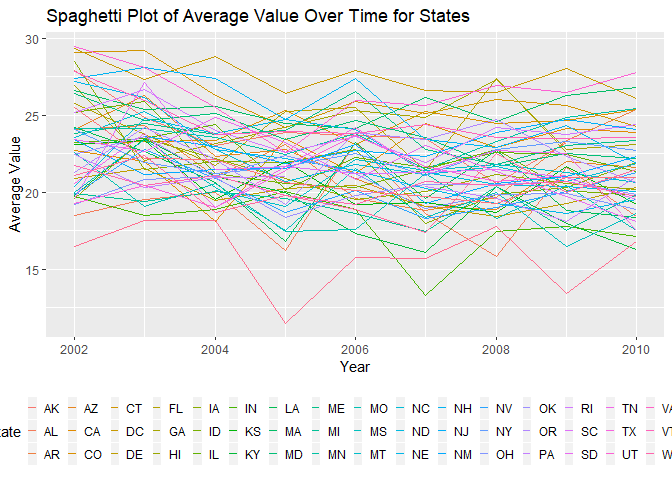
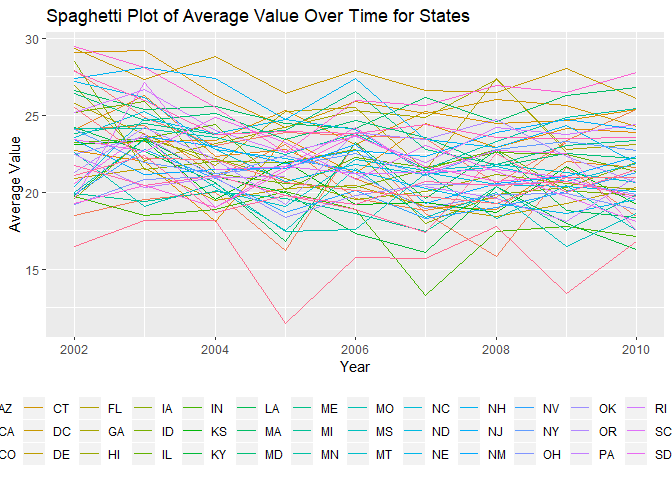
figured out 2-panel plot for Problem 2, continuing work on problem 3

diff --git a/p8105_hw3_ebm2142.md b/p8105_hw3_ebm2142.md
@@ -77,17 +77,18 @@ count(instacart, aisle) %>% ungroup() %>% arrange(desc(n))
 ``` r
 instacart %>%
 count(aisle) %>% 
+filter(n > 10000) %>% 
 mutate(aisle = forcats::fct_reorder(aisle, n, .desc = TRUE)) %>% 
 ggplot(aes(x = aisle, y = n)) + coord_flip() +
 geom_bar(stat = "identity") +
 labs(title = "Number of Orders in Aisle",
        x = "Aisle",
-       y = "Number of Orders") 
+       y = "Number of Orders")
 ```
 
-![](p8105_hw3_ebm2142_files/figure-gfm/making%20number%20of%20orders%20plot-1.png)<!-- -->
+![](p8105_hw3_ebm2142_files/figure-gfm/unnamed-chunk-1-1.png)<!-- -->
 
-##### *This is impossible to read because idk how to filter it yet.*
+##### *By far the aisles with the most orders are healthy (fruits, vegetables, and yogurt among the top 4).*
 
 #### Make a table showing the three most popular items in each of the aisles “baking ingredients”, “dog food care”, and “packaged vegetables fruits”. Include the number of times each item is ordered in your table.
 
@@ -122,16 +123,24 @@ instacart %>%
 
 ``` r
 instacart %>% 
-filter(product_name %in% c("Pink Lady Apples", "Coffee Ice Cream")) %>%  
+filter(product_name %in% c("Pink Lady Apples", "Coffee Ice Cream")) %>% 
   select(product_name, order_dow, order_hour_of_day) %>% 
+  mutate(dow_name = recode(order_dow, 
+                      '1' = "Mon",
+                      '2' = "Tues",
+                      '3' = "Wed",
+                      '4'  = "Thurs",
+                      '5' = "Fri",
+                      '6' = "Sat",
+                      '0' = "Sun")) %>% 
   group_by(product_name, order_dow) %>% 
   summarize(mean_hour = round(mean(order_hour_of_day))) %>%
   spread(key = order_dow, value = mean_hour) %>% 
-  rename("Product Name" = product_name) %>% 
+  rename("Product" = product_name) %>% 
   knitr::kable()
 ```
 
-| Product Name     |  0 |  1 |  2 |  3 |  4 |  5 |  6 |
+| Product          |  0 |  1 |  2 |  3 |  4 |  5 |  6 |
 | :--------------- | -: | -: | -: | -: | -: | -: | -: |
 | Coffee Ice Cream | 14 | 14 | 15 | 15 | 15 | 12 | 14 |
 | Pink Lady Apples | 13 | 11 | 12 | 14 | 12 | 13 | 12 |
@@ -157,34 +166,48 @@ brfss %>%
   filter(year == 2002) %>% 
   distinct(state, county) %>% 
   count(state) %>% 
-  filter(n == 7) 
+  filter(n >= 7) 
 ```
 
-    ## # A tibble: 3 x 2
+    ## # A tibble: 6 x 2
     ##   state     n
     ##   <chr> <int>
     ## 1 CT        7
     ## 2 FL        7
-    ## 3 NC        7
+    ## 3 MA        8
+    ## 4 NC        7
+    ## 5 NJ        8
+    ## 6 PA       10
 
-##### *Three states were observed at more than 7 locations in 2002, two in the south (FL and NC) and one in the northeast (CT).*
+##### *Six states were observed at more than 7 locations in 2002, two in the south (FL and NC) and the remaining in the northeast (CT, MA, NJ, PA).*
 
 ``` r
 brfss %>% 
   filter(year == 2010) %>% 
   distinct(state, county) %>% 
   count(state) %>% 
-  filter(n == 7) 
+  filter(n >= 7) 
 ```
 
-    ## # A tibble: 3 x 2
-    ##   state     n
-    ##   <chr> <int>
-    ## 1 CO        7
-    ## 2 PA        7
-    ## 3 SC        7
+    ## # A tibble: 14 x 2
+    ##    state     n
+    ##    <chr> <int>
+    ##  1 CA       12
+    ##  2 CO        7
+    ##  3 FL       41
+    ##  4 MA        9
+    ##  5 MD       12
+    ##  6 NC       12
+    ##  7 NE       10
+    ##  8 NJ       19
+    ##  9 NY        9
+    ## 10 OH        8
+    ## 11 PA        7
+    ## 12 SC        7
+    ## 13 TX       16
+    ## 14 WA       10
 
-##### *Three different states were observed at more than 7 locations in 2010, one in the south (SC), one in the northeast (PA), and one in the west (CO).*
+##### *Fourteen different states were observed at more than 7 locations in 2010, four in the south (FL, NC, SC, TX), the majority in the northeast (MA, MD, PA, NJ, NY, and PA), and the remaining in the west (CO, WA, OH, NE).*
 
 #### Construct a dataset that is limited to Excellent responses, and contains, year, state, and a variable that averages the data\_value across locations within a state.
 
@@ -207,8 +230,7 @@ brfss_new %>%
          x = "Year", 
          y = "Average Value") + 
     theme(legend.position = "bottom", 
-          legend.direction = "horizontal", 
-          legend.key.width = unit(.1, "in")) + 
+          legend.direction = "horizontal") + 
     guides(color = guide_legend(ncol = 17))
 ```
 
@@ -223,18 +245,14 @@ brfss_new %>%
 ``` r
 brfss %>% 
   filter(state == "NY") %>%
-  filter(year == "2006", year == "2010") 
+  filter(year == "2006" | year == "2010") %>%
+  select(year, data_value, county, response) %>%
+  mutate(data_value = as.numeric(data_value), year = as.factor(year), county = as.factor(county)) %>%
+  ggplot(aes(x = response, y = data_value)) + 
+  geom_boxplot() + facet_grid(. ~year)
 ```
 
-    ## # A tibble: 0 x 23
-    ## # ... with 23 variables: year <int>, state <chr>, county <chr>,
-    ## #   class <chr>, topic <chr>, question <chr>, response <fct>,
-    ## #   sample_size <int>, data_value <dbl>, confidence_limit_low <dbl>,
-    ## #   confidence_limit_high <dbl>, display_order <int>,
-    ## #   data_value_unit <chr>, data_value_type <chr>,
-    ## #   data_value_footnote_symbol <chr>, data_value_footnote <chr>,
-    ## #   data_source <chr>, class_id <chr>, topic_id <chr>, location_id <chr>,
-    ## #   question_id <chr>, respid <chr>, geo_location <chr>
+![](p8105_hw3_ebm2142_files/figure-gfm/unnamed-chunk-2-1.png)<!-- -->
 
 ### Problem 3
 
@@ -259,11 +277,16 @@ accel_data = read_csv("./data/accel_data.csv") %>%
 #### Traditional analyses of accelerometer data focus on the total activity over the day. Using your tidied dataset, aggregate accross minutes to create a total activity variable for each day, and create a table showing these totals. Are any trends apparent?
 
 ``` r
+accel_data_tot = 
 accel_data %>%
-mutate(tot_daily_activity = rowSums(.[4:1443])) %>%
-  group_by(week, day, tot_daily_activity) %>% 
-  select(week, day, tot_daily_activity) %>%
-  knitr::kable()
+mutate(tot_daily_activity = rowSums(.[4:1443]))
+```
+
+``` r
+accel_data_tot %>%  
+group_by(week, day, tot_daily_activity) %>% 
+select(week, day, tot_daily_activity) %>%
+knitr::kable()
 ```
 
 | week | day       | tot\_daily\_activity |
@@ -304,4 +327,37 @@ mutate(tot_daily_activity = rowSums(.[4:1443])) %>%
 |    5 | Tuesday   |            367824.00 |
 |    5 | Wednesday |            445366.00 |
 
-#### Accelerometer data allows the inspection activity over the course of the day. Make a single-panel plot that shows the 24-hour activity time courses for each day and use color to indicate day of the week. Describe in words any patterns or conclusions you can make based on this graph
+##### *There does not appear to be strong trends relating to either week number or day of the week.*
+
+#### Accelerometer data allows the inspection activity over the course of the day. Make a single-panel plot that shows the 24-hour activity time courses for each day and use color to indicate day of the week. Describe in words any patterns or conclusions you can make based on this graph.
+
+``` r
+accel_data_tot_hours = 
+accel_data_tot %>%
+mutate(H1 = rowSums(.[4:63])) %>%
+mutate(H2 = rowSums(.[64:123])) %>%
+mutate(H3 = rowSums(.[124:183])) %>%
+mutate(H4 = rowSums(.[184:243])) %>%
+mutate(H5 = rowSums(.[244:303])) %>%
+mutate(H6 = rowSums(.[304:363])) %>%
+mutate(H7 = rowSums(.[364:423])) %>%
+mutate(H8 = rowSums(.[424:483])) %>%
+mutate(H9 = rowSums(.[484:543])) %>%
+mutate(H10 = rowSums(.[544:603])) %>%
+mutate(H11 = rowSums(.[604:663])) %>%
+mutate(H12 = rowSums(.[664:723])) %>%
+mutate(H13 = rowSums(.[724:783])) %>%
+mutate(H14 = rowSums(.[784:843])) %>%
+mutate(H15 = rowSums(.[844:903])) %>%
+mutate(H16 = rowSums(.[904:963])) %>%
+mutate(H17 = rowSums(.[964:1023])) %>%
+mutate(H18 = rowSums(.[1024:1083])) %>%
+mutate(H19 = rowSums(.[1084:1143])) %>%
+mutate(H20 = rowSums(.[1144:1203])) %>%
+mutate(H21 = rowSums(.[1204:1263])) %>%
+mutate(H22 = rowSums(.[1264:1323])) %>%
+mutate(H23 = rowSums(.[1324:1383])) %>%
+mutate(H24 = rowSums(.[1384:1443])) %>%
+pivot_longer(H1:H24, 
+  names_to = "hour", values_to = "aph") 
+```
